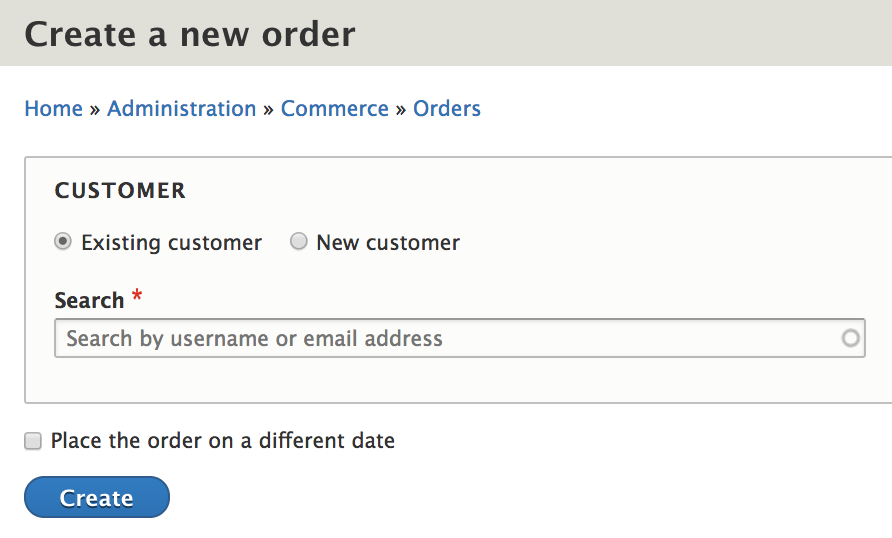
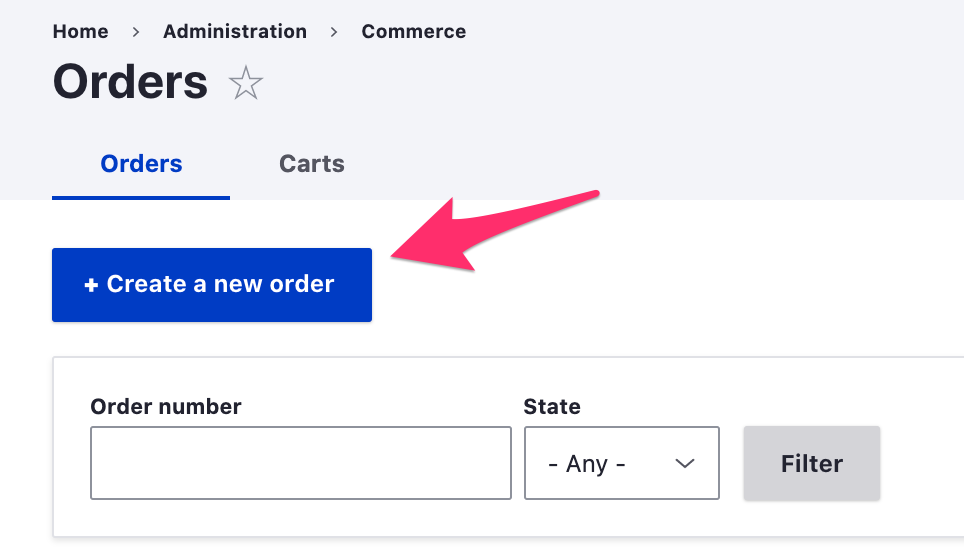
updates to customer documentation

diff --git a/user/pages/03.commerce2/02.developer-guide/04.customers/03.profiles/02.profile-configuration/docs.md b/user/pages/03.commerce2/02.developer-guide/04.customers/03.profiles/02.profile-configuration/docs.md
@@ -6,18 +6,18 @@ taxonomy:
 
 This section describes how you can use *Profiles* to capture and store information about your customers. In a default Drupal Commerce installation, the *Customer* profile type is provided for you. You can customize this *Customer* profile type to suit your needs and/or create additional profile types.
 
-You can access the administrative page for the *Customer* profile type and any others you create at `/admin/config/people/profiles`.
+Access the administrative page for the *Customer* profile type and any others you create at `/admin/config/people/profiles`.
 
 ![Profile type configuration](../../images/profile-config-1.png)
 
 ### Customer profile fields
-By default, profiles do not have any visible/editable fields; however, the *Customer* profile type includes an *Address* field. See the [Addresses documentation](../../02.addresses) section for information about *Address* fields. Each *Customer* profile has a single address. You can change the *Label* for the address field, as it's shown to customers, on the *Address settings* administrative page, located at `/admin/config/people/profiles/manage/customer/fields/profile.customer.address`.
+By default, profiles do not have any visible/editable fields; however, the Customer profile type includes an [Address](../../02.addresses) field. Each Customer profile has a single address. You can customize the Address field that's used by the Customer profile at `/admin/config/people/profile-types/manage/customer/fields/profile.customer.address`. If the Commerce Tax module is installed, a "Tax number" field will also be added to the Customer profile type.
 
-You can add custom fields to a profile by navigating to its *Manage fields* administrative page. For *Customer* profiles, this page is located at `/admin/config/people/profiles/manage/customer/fields`. As an example, let's add a *Contact phone* field to our *Customer* profile type.
+You can add custom fields to a profile using its *Manage fields* administrative page.  As an example, let's add a *Contact phone* field to our *Customer* profile type.
 
 #### Customization example: *contact phone* field
 ##### Add the *contact phone* field
-1. If the Drupal core [Telephone module] is not already installed, navigate to the *Extend* administrative page and install it: `/admin/modules`.
+1. If the Drupal core [Telephone module] is not already installed, navigate to the *Extend* administrative page and install it: `/admin/modules`. (Alternatively, you could just use a text field.)
 2. Navigate to the *Manage fields* administrative page for the *Customer* profile type and click the *Add field* button.
 3. Select *Telephone number* as the field type.
 4. Enter *Contact phone* for the field label.
@@ -26,23 +26,25 @@ You can add custom fields to a profile by navigating to its *Manage fields* admi
 ![Add contact phone field](../../images/profile-config-2.png)
 
 ##### Configure the *contact phone* field
-1. On the *Field settings* page, we'll leave the *Allowed number of values* set to 1.
+1. On the *Field settings* page, leave the *Allowed number of values* set to 1.
 2. Click the *Save field settings* button.
-3. On the *settings* administrative page for *Contact phone*, select the [*This is a private field*](../03.profile-management#the-private-field-setting) setting.
+3. On the *settings* administrative page for *Contact phone*, select the *This is a private field* setting. Private profile fields are visible only to the owner of the profile and administrative users.
 4. Click the *Save settings* button.
 
 ![Configure contact phone field](../../images/profile-config-3.png)
 
-Next, you can use the *Manage form display* and *Manage display* administration pages for the profile to customize how the new field appears on data entry forms and in a customer's *Address book*.
+Next, you can use the *Manage form display* and *Manage display* administration pages for the profile to customize how the new field appears on data entry forms and in a customer's *Address book*. In the "Custom display settings", there are two additional form modes, Billing and Shipping, that can be enabled. If enabled, these form modes will be used whenever profile data entry forms are rendered during checkout and on the order admin edit page.
+
+![Profile form modes](../../images/profile-config-6.png)
 
 #### Adding fields to the customer profile vs. creating new profile types
-The *customer* profile should contain all the billing information needed to process an order. If you have physical products and use the *Commerce shipping* module, then *customer* profiles will also be used for the shipping information associated with orders. For simpler commerce sites, especially those that are B2C, the *address* field may be all you need for the *customer* profile. For additional information, you could create a separate profile type to manage information about your customer like name and phone number. With this architecture, your customers would only enter need to enter their contact information once, for that separate profile type. In contrast, if you added the contact name and phone number fields to the *customer* profile, your customers would need to repeatedly enter that information for every billing and shipping address added.
+The *customer* profile should contain all the billing information needed to process an order. If you have physical products and use the *Commerce shipping* module, then *customer* profiles can also be used for the shipping information associated with orders. For simpler commerce sites, especially those that are B2C, the *address* field may be all you need for the *customer* profile. For additional information, you could create a separate profile type to manage information about your customer like name and phone number. With this architecture, your customers would only enter need to enter their contact information once, for that separate profile type. In contrast, if you added the contact name and phone number fields to the *customer* profile, your customers would need to repeatedly enter that information for every billing and shipping address added.
 
 For other commerce sites, your customers may actually be purchasing agents who order on behalf of a number of end users. In that case, you might need a set of additional fields associated with *each* billing and shipping address, such as contact email, contact name, contact phone, a note field, reference to a customer organization, reference to an assigned sales representative, etc. So, you would add each of these fields to your *customer* profile type. Your customers would have the flexiblity to enter completely different sets of data for each of their *customer* profiles. Ultimately, you'll need to decide what information needs to be captured on a per-order basis vs. what customer information you need apart from that billing- and shipping-specific data.
 
 ### Create a profile type
 To create a new profile type:
-1. Navigate to the *Profile types* administrative page at `/admin/config/people/profiles`.
+1. Navigate to the *Profile types* administrative page at `/admin/config/people/profile-types`.
 2. Click the *Add profile type* button.
 3. Enter the name of the profile type for the *Label*. You can use the default settings for all other options, for now.
 4. Click the *Save* button.
@@ -59,8 +61,6 @@ The description field is only used for administrative purposes. It is displayed 
 ##### Include in user registration form
 By default, the *Customer* profile type is included in the user registration form. If this option is enabled for a profile type, then its data entry form will be embedded at the end of the new user registration form. In this example, *Contact phone* has been added to the *Customer profile* profile type, so it also appears on the registration form.
 
-![Profile type creation](../../images/profile-config-5.png)
-
 ##### Allow multiple profiles
 This option is enabled for the *Customer* profile type, to allow customers to create and save multiple addresses in their [*Address book*](../01.overview#address-book). If a user should only have a single set of data for a profile type, leave this option unselected. For example, if you create a *Contact information* profile type, you may want to have only one set of contact information per user.
 
@@ -68,9 +68,6 @@ This option is enabled for the *Customer* profile type, to allow customers to cr
 By default, there are no roles selected for the *Customer* profile type, which means that all users can have this profile type. If you allow customers to check out anonymously (i.e., "guest checkout"), then you need to allow *all* users to have *customer* profiles. Every order requires a *customer* profile for its *billing information* field. For other profile types, you may want to limit their usage to only certain, selected roles.
 
 ##### Create a new revision when a profile is modified
-Profiles are revisionable. Select this option to force a profile entity to be saved as a new revision whenever the profile is updated. This setting is important for data integrity with respect to existing orders. Normally, you will want to enable this setting for the *Customer* profile type. In order to reduce unnecessary data replication, orders store only a reference to a *Customer* profile, not a copy of an entire profile entity. So if a customer places multiple orders, all with the same billing address, only one billing address needs to be stored. However, if the customer changes his address at some point, creating a new revision for the profile entity ensures that the data associated with previous orders does not change. The *new* revision of the profile will be used as the billing address for the current and future orders while leaving the previous version of the billing address in place for past orders.
-
----
-In the next section, we'll look at profile management topics, including permissions and access control, managing profiles on behalf of customers, and options for importing and exporting profiles.
+Profiles are revisionable. Select this option to force a profile entity to be saved as a new revision whenever the profile is updated. This setting is normally not necessary for profiles used by Drupal Commerce since copies of profiles are saved to individual orders.
 
 [Telephone module]: https://www.drupal.org/docs/8/core/modules/telephone/overview

diff --git a/user/pages/03.commerce2/02.developer-guide/04.customers/03.profiles/01.overview/docs.md b/user/pages/03.commerce2/02.developer-guide/04.customers/03.profiles/01.overview/docs.md
@@ -6,27 +6,35 @@ taxonomy:
 
 The [Profile module] is a contributed Drupal module that is required by Drupal Commerce yet maintained separately from the core Drupal Commerce module. When you manage your Drupal Commerce site using [Composer](../../../../01.getting-started/01.using-composer), the *Profile* module will be automatically added to your project.
 
-*Profiles* are fieldable entities that represent a set of user information. The *Drupal Commerce* module provides one specific profile type, called the *Customer profile*. *Customer* profiles are used to collect customer information necessary for billing, payment, and shipping.
+*Profiles* are fieldable entities that represent a set of user information. The Drupal Commerce *Order* module provides one specific profile type, called the *Customer* profile. *Customer* profiles are used to collect customer information necessary for billing, payment, and shipping.
 
 ### Relationship to user accounts
 *User accounts* are also fieldable entities that can be used to capture customer information. However, only a single instance of this data will exist, and it is not revisionable. Therefore, user accounts are best used for information that is likely to stay fixed for customers, like gender or date of birth. This information isn't likely to change on a per-order basis. In contrast, users can have multiple *profiles*, each with a distinct set of information. Each *Customer* profile has a single address and can optionally include other information like phone number or contact name.
 
-Every profile belongs to exactly one user account, and if a user account is deleted, then all of its profiles are also deleted.
+Every profile belongs to a single user account, and if a user account is deleted, then all of its profiles are also deleted. Within Drupal Commerce, *copies* of customer profiles are assigned to orders so that they cannot be deleted by customers. Customers cannot access these profiles, and they are only deleted if their parent orders are deleted.
 
 ### Address book
-A customer can have an *address book* of multiple stored addresses, which is actually just the collection of *Customer* profiles owned by that customer. One of these stored addresses is designated as the *default* profile. For each profile types, there is one *default* profile per user. For example, this customer named *John Smith* has his home address as his *default* customer profile and a second address, for a
+The collection of all *Commerce customer* profiles owned by a customer is called his *Address book* and can be managed as part of his User account information. If multiple Commerce customer profile types are created, then they will be organized into separate groups within the customer's address book. For each profile type, there is one *default* profile per user.
+
+For example, this customer named *Betty Smith* has her home address as her *default* customer profile and a second address that can be optionally selected for her payment/billing/shipping information during checkout. An additional "Account information" profile type has been created which may serve some other purpose.
 
 ![Address book](../../images/profile-overview-1.png)
 
 ### Profiles in the checkout process
-In Drupal Commerce, each order has a *Billing profile*, which is set during the checkout process. By default, customers are asked for billing information right after they either log in or (optionally) choose to continue as a guest. The *Billing information* checkout pane appears as part of the *Order information* step. If the Drupal Commerce *Payment* module is enabled, the *Payment information* checkout pane is used instead of the *Billing information* pane. These checkout panes will set the *Billing profile* for the order.
+In Drupal Commerce, each order has a *Billing profile*, which is set during the checkout process. By default, customers are asked for billing information right after they either log in or (optionally) choose to continue as a guest. The *Billing information* checkout pane appears as part of the *Order information* step.
 
-Here is an example of the *Order Information* step, in which the *Customer* profile form is presented to the customer. The *Customer* profile has been extended to include a *Contact phone* field in addition to the address. Also, the *Payment* module is enabled for this site, so the profile is labeled as *Payment information* rather than *Billing information*.
+If the Drupal Commerce *Payment* module is enabled, the *Payment information* checkout pane is used instead of the *Billing information* pane. These checkout panes allow the customer to set the *Billing profile* for the order. If the payment gateway for an available payment method allows checkout without billing information, then it is possible to allow customers to check out without setting a billing profile for the order.
+
+Here is an example of the *Order Information* step, in which the default *Customer* profile form is presented to the customer. When more than one customer profile is available, the "Select an address" element is provided. Since the *Payment* module is enabled for this example site, the profile is labeled as *Payment information* rather than *Billing information*.
 
 ![Address book](../../images/profile-overview-2.png)
 
-If the [Commerce Shipping module] is installed, then a *Shipping Information* pane will also be available to collect the *Shipping profile* for the order. The *customer* profile type is used for both *billing* and *shipping* profiles
-Within Drupal Commerce, the *Order* and *Payment* modules provide checkout panes that are used to collect billing information for orders.
+#### Shipping profiles
+If the [Commerce Shipping module] is installed, then a *Shipping Information* pane will also be available to collect the *Shipping profile* for the order. Any *customer* profile type can be used for both *billing* and *shipping* profiles. Using a single bundle for both billing and shipping information is generally a best practice for many sites and solutions. This includes Amazon, Shopify, BigCommerce, Spree, etc. 
+
+However, some merchants may require different fields for billing vs. shipping. For those merchants,  shipment types can  be configured to use a different customer profile type. For example, here a "Shipping profile" profile type has been created and assigned to the Default shipment type:
+
+![Address book](../../images/profile-overview-3.png)
 
 
 [Profile module]: https://www.drupal.org/project/profile

diff --git a/user/pages/03.commerce2/02.developer-guide/04.customers/01.overview/docs.md b/user/pages/03.commerce2/02.developer-guide/04.customers/01.overview/docs.md
@@ -8,7 +8,7 @@ If you're looking at Drupal Commerce for the first time, you may be wondering, "
 
 ![Commerce administrative menu](../images/overview-1.png)
 
-*Drupal Commerce* has been designed to allow developers to build ecommerce sites without an overly rigid structure for managing customers and their data. Instead, developers can take a wide variety of approaches with respect to *customers*. For example, you may already have CRM and marketing systems in place within your organization. In that case, you can adopt a minimalistic setup for your customers within Drupal Commerce and then feed the data into your existing external system(s). Conversely, if you do want your Drupal site to be an all-in-one ecommerce solution, you can extend the basic framework provided to customize and organize your customer information however you like, to suit your specific business logic.
+Drupal Commerce has been designed to allow developers to build ecommerce sites without an overly rigid structure for managing customers and their data. Instead, developers can take a wide variety of approaches with respect to customers. For example, you may already have CRM and marketing systems in place within your organization. In that case, you can adopt a minimalistic setup for your customers within Drupal Commerce and then feed the data into your existing external system(s). Conversely, if you do want your Drupal site to be an all-in-one ecommerce solution, you can extend the basic framework provided to customize and organize your customer information however you like, to suit your specific business needs.
 
 Drupal Commerce is dependent upon three separate modules for its customer data:
 - The Drupal core [User module](#user-module)
@@ -16,20 +16,25 @@ Drupal Commerce is dependent upon three separate modules for its customer data:
 - The contributed [Address module](#address-module)
 
 #### User module
-The [User module] is provided by Drupal Core and is required for all Drupal sites. In Drupal, anyone who visits your website is a *user*. When a user registers on your site, a *user account* is created to store information including email address, username, and password. If you are unfamiliar with the concepts of users and user accounts in Drupal, you will want to read about [Managing User Accounts] in the Drupal 8 User guide.
+The [User module] is provided by Drupal Core and is required for all Drupal sites. In Drupal, anyone who visits your website is a *user*. When a user registers on your site, a *user account* is created to store information including email address, username, and password. Guests and registered users not currrently logged in to your site are *Anonymous* users. If you are unfamiliar with the concepts of users and user accounts in Drupal, you will want to read about [Managing User Accounts] in the Drupal 8 User guide.
 
-In Drupal Commerce, a *customer* is any *user* who places an order. Whenever an order is created, the current user is assigned to that order. Administrative users can also create orders on behalf of customers by explicitly assigning them to orders.
+In Drupal Commerce, a *customer* is any *user* who places an order. Thus, the *user accounts* that belong to registered customers serve as *customer accounts* within Drupal Commerce. Whenever an order is created, the current user is assigned to that order. If the current user is not logged in, and if your checkout is configured to allow *Guest checkout*, then the *Anonymous user* is assigned to the order. Administrative users can also create orders on behalf of customers by explicitly assigning them to orders.
 
-![Create order admin page](../images/overview-2.png)
+This "Create a new order" form is available only for administrative users with appropriate permissions. To create a new order, click the, "Create a new order" button on the Orders administrative page. The Customer owner of the order is a required field.
 
-The *user accounts* that belong to registered customers serve as *customer accounts* within Drupal Commerce. Each customer account has one or more *customer profiles*, which are provided by the *Profile* module.
+![Create order admin page](../images/overview-3.png)
+
 
 For additional information about how to customize and manage *customer accounts* in Drupal Commerce, see the [Customer accounts documentation page](../04.customer-accounts).
 
 #### Profile module
+ Each customer account has one or more *profiles*, which are provided by the *Profile* module.
+
+![Data model for Customer accounts and Profiles](../images/overview-4.png)
+
 The [Profile module] is a popular, well-maintained Drupal 8 contributed module that is required by Drupal Commerce. Drupal Commerce defines its own type (bundle) of profile, called the *customer profile*. Customer profiles contain collections of data required to process orders such as billing information, shipping information, and other types of details. Orders and payment methods have *billing* profiles, and if you have physical products that require shipping, your shipments will have *shipping* profiles. Drupal Commerce provides just a single type of profile, the *customer profile*, to be used everywhere so that it's possible for customers to elect to use the *same* profile for both billing and shipping.
 
-Customers can have multiple billing and shipping profiles. Each *customer profile* has a single *address* field, which is provided by the *Address* module. The collection of all profiles belonging to a customer account is called the customer's *address book*. All profiles are *revisionable*, and orders/payments/shipments all reference specific revisions of profiles so that the integrity of the data at the time of the order/payment/shipment is maintained even if the customer's profile data is subsequently updated.
+Customers can have multiple billing and shipping profiles. Each *customer profile* has a single *address* field, which is provided by the *Address* module. The collection of all profiles belonging to a customer account is called the customer's *address book*. When an order is placed, *copies* of customer profiles are saved to the order so that the integrity of the data at the time of the order is maintained even if the customer's profile data is subsequently updated.
 
 For additional information about how to customize and manage *customer profiles* in Drupal Commerce, see the [Profiles documentation section](../03.profiles).
 

diff --git a/user/pages/03.commerce2/02.developer-guide/04.customers/03.profiles/03.profile-management/docs.md b/user/pages/03.commerce2/02.developer-guide/04.customers/03.profiles/03.profile-management/docs.md
@@ -27,9 +27,11 @@ These permissions should only be granted to users with administrative access to 
 
 ##### *Profile* permissions
 - Access the profile entities overview page
-- Administer profile entities
-- Andminister profile types
-- View profile entities
+- Administer profile types
+- Administer profiles
+- View any profiles
+- View own profiles
+- View own unpublished profiles
 - And a set of permissions for each profile type:
  - Create profile entities
  - Delete any profile
@@ -39,10 +41,11 @@ These permissions should only be granted to users with administrative access to 
  - View any profile
  - View own profile
 
+
  Typically, you will want to allow your *Authenticated Users* (customers) to create profile entities and delete/update/view their own *Customer* profile entities. The rest of the permissions are more appropriate for administrative users.
 
 ### Field permissions module
-If you need to limit access to certain *fields* for the *customer* profile or any other type of profile, the [Field permissions] contrib module can provide that functionality. For example, suppose each of your customers is assigned to a specific regional sales representative. You would like customers to be able to *view* their sales representatives, but only administrative users should be allowed to make sales representative assignments. Also, you want to include the *sales representative* field with your order data so that it can be tracked in sales reports. So, we want this field to be part of the *Customer* profile.
+If you need to limit access to certain *fields* for the *customer* profile or any other type of profile, you may be able to utilize display and form view modes to display/hide specific profile fields. If you need more sophisticated access control, the [Field permissions] contrib module can provide that functionality. For example, suppose each of your customers is assigned to a specific regional sales representative. You would like customers to be able to *view* their sales representatives, but only administrative users should be allowed to make sales representative assignments. Also, you want to include the *sales representative* field with your order data so that it can be tracked in sales reports. So, we want this field to be part of the *Customer* profile.
 
 #### Customization example: *sales representative* field
 1. Add and install the *Field permissions* module. (See the [Extending documentation](../../../02.install-update/06.extending) for instructions.)
@@ -66,7 +69,7 @@ When you view the *Profiles* listing page at `/admin/people/profiles`, you'll se
 
 Once a customer account has been located, you can access his or her profiles from the *Edit* administrative page. You'll see a tab at the top of the page for each of your profile types. Here we see tabs for three profile types: *Contact information*, *Address book* (for *Customer* profiles), and *My custom profile type*. You can manage profiles on behalf of customers via these tabs.
 
-![Manage customer profiles](../../images/profile-management-4.png)
+![Manage customer profiles](../../images/profile-overview-1.png)
 
 #### Customize the labels for customer profile tabs
 The label for the *Customer* profile tab is *Address book*. It has been customized by the Drupal Commerce *Order* module. You can customize labels for any profile type by implementing `hook_local_tasks_alter()` in a custom module, like this:

diff --git a/user/pages/03.commerce2/02.developer-guide/04.customers/03.profiles/10.code-recipes/docs.md b/user/pages/03.commerce2/02.developer-guide/04.customers/03.profiles/10.code-recipes/docs.md
@@ -13,6 +13,7 @@ If you want to write custom code to programatically create or manage profiles, y
  - [Profiles](#loading-profiles)
 - **Implement:**
  - [ProfileLabelSubscriber](#profilelabelsubscriber)
+ - [Profile inline form alterations](#altering-profile-inline-forms)
 
 ### Creating profile types
 ```php
@@ -196,3 +197,35 @@ services:
     tags:
       - { name: event_subscriber }
 ```
+
+### Altering profile inline forms
+Checkout panes and billing and shipping profile widgets use inline forms to render profile forms using specific form displays. These forms can be altered using the `hook_commerce_inline_form_alter` and `hook_commerce_inline_form_PLUGIN_ID_alter` hooks. For example, the Commerce shipping module implements the plugin-id specific version of the hook to attach the "Billing same as shipping" element to the `customer_profile` inline form:
+
+```php
+function commerce_shipping_commerce_inline_form_customer_profile_alter(array &$inline_form, FormStateInterface $form_state, array &$complete_form) {
+  // Attach the "Billing same as shipping" element.
+  $profile_field_copy = \Drupal::service('commerce_shipping.profile_field_copy');
+  if ($profile_field_copy->supportsForm($inline_form, $form_state)) {
+    $profile_field_copy->alterForm($inline_form, $form_state);
+  }
+}
+```
+
+When using the more generic form of the hook, you can use the `#inline_form` attribute of the inline form to identify a specific plugin and the `#profile_scope` attribute to identify the form mode, like this:
+
+```php
+function hook_commerce_inline_form_alter(array &$inline_form, FormStateInterface $form_state, array &$complete_form) {
+  /** @var \Drupal\commerce\Plugin\Commerce\InlineForm\InlineFormInterface $plugin */
+  $plugin = $inline_form['#inline_form'];
+  if ($plugin->getPluginId() == 'customer_profile') {
+    if ($inline_form['#profile_scope'] == 'billing' && !isset($inline_form['rendered'])) {
+      // Modify the billing profile when in "form" mode.
+      $inline_form['address']['widget'][0]['#type'] = 'fieldset';
+      // Individual address elements (e.g. "address_line1") can only
+      // be accessed from an #after_build callback.
+      $inline_form['address']['widget'][0]['address']['#after_build'][] = 'your_callback';
+    }
+  }
+}
+```
+

diff --git a/user/pages/03.commerce2/02.developer-guide/04.customers/03.profiles/docs.md b/user/pages/03.commerce2/02.developer-guide/04.customers/03.profiles/docs.md
@@ -4,22 +4,26 @@ taxonomy:
     category: docs
 ---
 
-This section provides documentation for the *Profile* module as a whole, with particular emphasis on how profiles are used in *Drupal Commerce*.
+This section provides an overview of the [Profile module] and describes how profiles are used in *Drupal Commerce*.
 
-#### [Overview](01.overview)
+#### [Overview](overview)
 - Familiarize yourself with the concepts of profiles and their relationship to user accounts.
 - Learn about how profiles are organized in a customer's address book and how they are used in the checkout process.
+- Learn how a custom profile type can be used for shipping addresses during checkout.
 
-#### [Profile configuration](02.profile-configuration)
+#### [Profile configuration](profile-configuration)
 - Add a Contact phone field to the customer profile type.
 - Create a new profile type to capture additional information about your customers.
 - Learn about configuration options for profile types.
 
-#### [Profile management](03.profile-management)
+#### [Profile management](profile-management)
 - Control access to profiles and their fields for your customers and administrative users.
 - Manage profiles on behalf of customers.
 - Learn options for importing and exporting profiles.
 
-#### [Code recipes](04.code-recipes)
+#### [Code recipes](code-recipes)
  - Create and load profile types and profiles programmatically.
  - Implement a profile label event subscriber to override the default label for profiles.
+ - Customize profile forms for checkout and administrative data entry.
+
+[Profile module]: https://www.drupal.org/project/profile

diff --git a/user/pages/03.commerce2/02.developer-guide/04.customers/docs.md b/user/pages/03.commerce2/02.developer-guide/04.customers/docs.md
@@ -4,7 +4,7 @@ taxonomy:
     category: docs
 ---
 
-If you are evaluating Drupal Commerce as a potential ecommerce solution, this section will help you decide whether Drupal Commerce can meet your needs with respect to how you can organize your customer-related information. If you are a site builder or developer, step-by-step instructions and explanations will help you get started with setting up customers, profiles, and addresses in your Drupal Commerce site.
+This documentation section describes how you can organize customer-related information within a Drupal Commerce site. For many Drupal sites, [integration with a third party application], such as HubSpot or Salesforce, provides additional functionality. Step-by-step instructions and explanations will help you set up and manage customers, profiles, and addresses. 
 
 #### [Overview](01.overview)
 - Learn how to manage your customer data using the three customer-related modules required by Drupal Commerce:
@@ -31,3 +31,4 @@ If you are evaluating Drupal Commerce as a potential ecommerce solution, this se
 [User]: https://www.drupal.org/docs/8/core/modules/user
 [Profile]: https://www.drupal.org/project/profile
 [Address]: https://www.drupal.org/project/address
+[integration with a third party application]: https://medium.com/@ayushjn/drupal-8-and-third-party-integrations-ac7a2ba3e23

diff --git a/user/pages/03.commerce2/02.developer-guide/04.customers/04.customer-accounts/docs.md b/user/pages/03.commerce2/02.developer-guide/04.customers/04.customer-accounts/docs.md
@@ -18,6 +18,17 @@ In addition to configuring *Account settings*, you may also want to add custom f
 
 ![Custom account fields](../images/customer-accounts-2.png)
 
+#### Including profiles in user registration
+As described in the [Profile management](../profiles/profile-management) documentation, profile types have an "include in user registration form" setting. If enabled, a form for a profile of that type will be included in the user registration form. This option is useful if you want to collect information about customers right when they register. For example, an "Account information" profile type has been created with "contact phone" and "purchasing agent" fields. It is configured for inclusion on the user registration form:
+
+![Profile included in user registration form](../images/customer-accounts-3.png)
+
+When a customer registers an account on the site, an "Account information" section appears on the registration form:
+
+![User registration form with included profile](../images/customer-accounts-4.png)
+
+
+
 ### Managing customer accounts
 The list of all user accounts, including both customers and administrative users is available on the *People* administrative page at `/admin/people`. You can customize this page by configuring its View settings at `/admin/structure/views/view/user_admin_people`.
 
